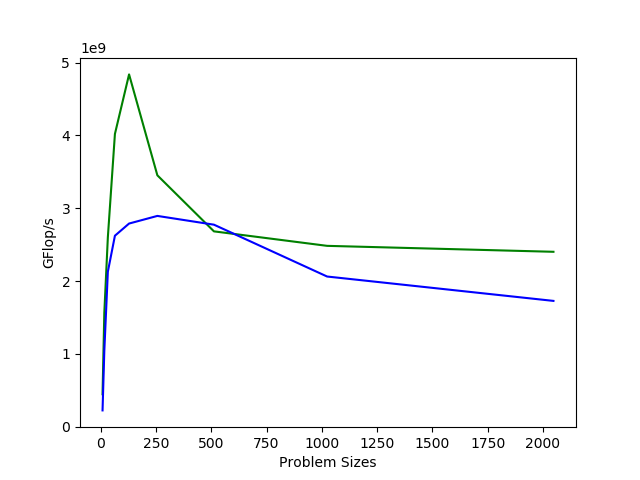
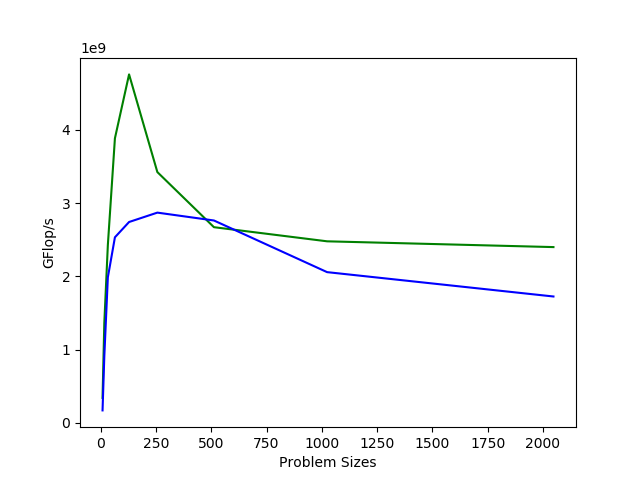
Implememt block lu in ex3

diff --git a/ex3/ex3.cpp b/ex3/ex3.cpp
@@ -4,18 +4,132 @@
 #include <algorithm>
 #include <chrono>
 
+// non block getrf
 template <typename T>
-T dot(int n, T* x, int incx, T* y, int incy) noexcept {
-    T sum = 0.0;
-    #pragma omp parallel for reduction(+:sum)
+void getrf2(int n, T *A, int lda) noexcept {
     for (int i = 0; i < n; ++i) {
-        sum += x[i * incx] * y[i * incy];
+        T inv_pivot = 1.0 / A[i * lda + i];
+        for (int j = i + 1; j < n; ++j) {
+            A[i * lda + j] *= inv_pivot;
+        }
+
+        for (int j = i + 1; j < n; ++j) {
+            for (int k = i + 1; k < n; ++k) {
+                A[j * lda + k] -= A[j * lda + i] * A[i * lda + k];
+            }
+        }
     }
-    return sum;
+}
+
+// trsm for side = left, uplo = lower, trans = n, diag = u
+// Use for computing L_11^-1 * A_12
+template <typename T>
+void trsm_llnu(int m, int n, T *A, int lda, T *B, int ldb) noexcept {
+    for (int i = 0; i < m; ++i) {
+        for (int j = i + 1; j < m; ++j) {
+            for (int k = 0; k < n; ++k) {
+                B[k * ldb + j] -= A[i * lda + j] * B[k * ldb + i];
+            }
+        }
+    }
+}
+
+// trsm for side = right, uplo = upper, trans = n, diag = n
+// Use for computing A_21 * U_11^-1
+template <typename T>
+void trsm_runn(int m, int n, T *A, int lda, T *B, int ldb) noexcept {
+    for (int i = 0; i < n; ++i) {
+        T inv_scale = 1.0 / A[i * lda + i];
+        for (int j = 0; j < m; ++j) {
+            B[i * ldb + j] *= inv_scale;
+        }
+
+        for (int j = i + 1; j < n; ++j) {
+            for (int k = 0; k < m; ++k) {
+                B[j * ldb + k] -= A[j * lda + i] * B[i * ldb + k];
+            }
+        }
+    }
+}
+
+// Use to construct the Schur's complement
+template <typename T>
+void gemm(
+    int m, int n, int k,
+    T alpha,
+    T *A, int lda,
+    T *B, int ldb,
+    T beta,
+    T *C, int ldc) noexcept {
+    for (int j = 0; j < n; ++j) {
+        T *C_ptr = C + j * ldc;
+        for (int i = 0; i < m; ++i) {
+            C_ptr[i] *= beta;
+        }
+    }
+
+    for (int i = 0; i < m; ++i) {
+        T *B_ptr = B + i * ldb;
+        for (int j = 0; j < n; ++j) {
+            T *C_ptr = C + j * ldc + i;
+            for (int l = 0; l < k; ++l) {
+                *C_ptr += alpha * A[l * lda + j] * B_ptr[l];
+            }
+        }
+    }
+}
+
+// block version of getrf
+template <typename T, int bs = 64>
+void getrf(int n, T *A, int lda) noexcept {
+    if (n < bs) {
+        getrf2(n, A, lda);
+        return;
+    }
+
+    for (int i = 0; i < n; i += bs) {
+        if (n - i > bs) {
+            // Alias blocks
+            // [ A11 A12 ]
+            // [ A21 A22 ]
+            T *A11 = A + i * lda + i;
+            T *A12 = A11 + bs * lda;
+            T *A21 = A11 + bs;
+            T *A22 = A12 + bs;
+
+            getrf2(bs, A11, lda);
+            trsm_llnu(bs, n - i - bs, A11, lda, A12, lda);
+            trsm_runn(n - i - bs, bs, A11, lda, A21, lda);
+            gemm(n - i - bs, n - i - bs, bs, T(-1.0), A21, lda, A12, lda, T(1.0), A22, lda);
+        } else {
+            getrf2(n - i, A + i * lda + i, lda);
+        }
+    }
+}
+
+void test() noexcept {
+    std::vector<double> A = {{
+        4.0, 3.0, 2.0, 1.0,
+        3.0, 4.0, 3.0, 2.0,
+        2.0, 3.0, 4.0, 3.0,
+        1.0, 2.0, 3.0, 4.0
+    }};
+
+    getrf<double, 2>(4, A.data(), 4);
+
+    std::cout << std::setprecision(3);
+    for (int i = 0; i < 4; ++i) {
+        for (int j = 0; j < 4; ++j) {
+            std::cout << A[j * 4 + i] << "\t";
+        }
+        std::cout << std::endl;
+    }
 }
 
 int main(int argc, char **argv) {
-    std::vector<int>    test_sizes = {{ 32, 64, 128, 256, 512, 1024, 2048, 4096, 8192, 16384, 32768, 65536, 131072, 262144, 524288, 1048576 }};
+    test();
+
+    std::vector<int>    test_sizes = {{ 32, 64, 128, 256, 512, 1024, 2048 }};
     std::vector<double> elap_times;
 
     elap_times.reserve(test_sizes.size());
@@ -29,11 +143,14 @@ int main(int argc, char **argv) {
     std::cout << test_sizes.back() << std::endl;
 
     for (int &size: test_sizes) {
-        std::vector<double> x(size), y(size);
+        std::vector<double> A(size * size);
+
+        std::generate(A.begin(), A.end(), [](){
+            return double(std::rand()) / RAND_MAX;
+        });
 
         auto start = std::chrono::high_resolution_clock::now();
-        double retval = dot(size, x.data(), 1, y.data(), 1);
-        static_cast<void>(retval);
+        getrf(size, A.data(), size);
         auto end = std::chrono::high_resolution_clock::now();
 
         std::chrono::duration<double> diff = end - start;

diff --git a/ex2/plot.rb b/ex2/plot.rb
@@ -9,8 +9,8 @@ times = CSV.parse(File.read('ex2.csv'))
   times[i] = times[i].map { |x| x.to_f}
 end
 
-getrf_n_gflop = times[0].map { |size| (1.0 / 6.0) * size * (size + 1) * (4.0 * size + 5) }
-getrf_p_gflop = times[0].map { |size| (1.0 / 6.0) * size * (size + 1) * (4.0 * size + 5) }
+getrf_n_gflop = times[0].map { |size| (2.0 / 3.0) * size**3 }
+getrf_p_gflop = times[0].map { |size| (2.0 / 3.0) * size**3 }
 
 getrf_n_perf = []
 getrf_p_perf = []

diff --git a/ex2/README.md b/ex2/README.md
@@ -9,7 +9,7 @@ use `make plot` to run and generate performance figure.
 Problem Analysis
 ====================
 
-The computational cost of LU factorization is about O(2n/3) where n is the
+The computational cost of LU factorization is about O((2/3)n^3) where n is the
 row/column dimension of the matrix.
 
 Performance Results
